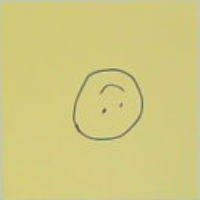
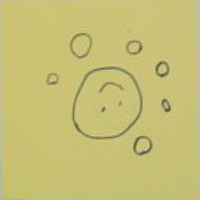
User kann mehr als eine Zeichnung in einer session machen
Nachdem eine zeichnung erkannt und in svg gewandelt wurde, kann der User entscheiden, ob noch weitere zeichnungen erkannt werden sollen. Funktioniert momentan über keybord eingabe

diff --git a/svgConverter/postitDetection.py b/svgConverter/postitDetection.py
@@ -2,136 +2,125 @@ import cv2
 import numpy as np
 import os
 
-def detect_postit_and_draw(frame):
-    # Convert the frame to HSV for better color detection
-    hsv = cv2.cvtColor(frame, cv2.COLOR_BGR2HSV)
+# Define shared directory and notification file paths
+SHARED_DIR = "shared"
+NOTIFICATION_FILE = os.path.join(SHARED_DIR, "ready_for_svg.txt")
 
-    # Define the color range for yellow (adjust as needed for your Post-It note color)
+# Ensure the shared directory exists
+os.makedirs(SHARED_DIR, exist_ok=True)
+
+def detect_postit_and_draw(frame):
+    hsv = cv2.cvtColor(frame, cv2.COLOR_BGR2HSV)
     lower_yellow = np.array([20, 30, 70])
     upper_yellow = np.array([50, 255, 255])
-
-    # Create a mask for the yellow color
     mask = cv2.inRange(hsv, lower_yellow, upper_yellow)
-
-    # Find contours in the mask
     contours, _ = cv2.findContours(mask, cv2.RETR_EXTERNAL, cv2.CHAIN_APPROX_SIMPLE)
 
     for contour in contours:
-        # Filter small contours
         if cv2.contourArea(contour) > 1000:
-            # Approximate the contour to get a polygon
             epsilon = 0.02 * cv2.arcLength(contour, True)
             approx = cv2.approxPolyDP(contour, epsilon, True)
-
-            # If the polygon has four sides, we assume it is the Post-It note
             if len(approx) == 4:
-                # Perform a perspective transformation to align the Post-It
                 pts = np.array([point[0] for point in approx], dtype='float32')
 
-                # Order points in consistent order: top-left, top-right, bottom-right, bottom-left
                 def order_points(pts):
                     rect = np.zeros((4, 2), dtype='float32')
                     s = pts.sum(axis=1)
-                    rect[0] = pts[np.argmin(s)]  # Top-left
-                    rect[2] = pts[np.argmax(s)]  # Bottom-right
+                    rect[0] = pts[np.argmin(s)]
+                    rect[2] = pts[np.argmax(s)]
                     diff = np.diff(pts, axis=1)
-                    rect[1] = pts[np.argmin(diff)]  # Top-right
-                    rect[3] = pts[np.argmax(diff)]  # Bottom-left
+                    rect[1] = pts[np.argmin(diff)]
+                    rect[3] = pts[np.argmax(diff)]
                     return rect
 
                 rect = order_points(pts)
-
-                # Define the width and height of the Post-It note (adjust as needed)
-                width = 200
-                height = 200
+                width, height = 200, 200
                 dst = np.array([
                     [0, 0],
                     [width - 1, 0],
                     [width - 1, height - 1],
                     [0, height - 1]
                 ], dtype='float32')
-
-                # Compute the perspective transform matrix and apply it
                 M = cv2.getPerspectiveTransform(rect, dst)
                 warped = cv2.warpPerspective(frame, M, (width, height))
-
-                # Draw the bounding polygon on the original frame
                 cv2.polylines(frame, [approx], True, (0, 255, 0), 2)
-
                 return warped
-
     return None
 
 def detect_drawing(prev_frame, current_frame):
-    # Compute absolute difference between frames
     diff = cv2.absdiff(prev_frame, current_frame)
-
-    # Apply a more sensitive threshold to highlight changes
     _, thresh = cv2.threshold(diff, 25, 255, cv2.THRESH_BINARY)
-
-    # Count non-zero pixels in the thresholded image
     non_zero_pixels = cv2.countNonZero(thresh)
-
-    # Return True if changes exceed a reduced threshold
     return non_zero_pixels > 1500
+
+def notify_svg_conversion(cropped_file):
+    with open(NOTIFICATION_FILE, "w") as f:
+        f.write(cropped_file)
+    print(f"Notification written to {NOTIFICATION_FILE}")
 
 def main():
     cap = cv2.VideoCapture(0)
-    prev_frame = None
-    drawing_detected = False
-    no_movement_counter = 0
-    movement_threshold = 10
-
-    # Shared directory for communication
-    shared_dir = "shared/"
-    os.makedirs(shared_dir, exist_ok=True)
 
     while True:
-        ret, frame = cap.read()
-        if not ret:
-            break
+        prev_frame = None
+        drawing_detected = False
+        no_movement_counter = 0
+        movement_threshold = 10
 
-        # Resize frame for faster processing
-        frame = cv2.resize(frame, (640, 480))
+        print("Ready to detect a new drawing...")
 
-        # Detect Post-It note and crop the region
-        cropped = detect_postit_and_draw(frame)
-
-        if cropped is not None:
-            gray_cropped = cv2.cvtColor(cropped, cv2.COLOR_BGR2GRAY)
-            gray_cropped = cv2.GaussianBlur(gray_cropped, (11, 11), 0)
-
-            if prev_frame is None:
-                prev_frame = gray_cropped
-                continue
-
-            if detect_drawing(prev_frame, gray_cropped):
-                drawing_detected = True
-                no_movement_counter = 0
-            else:
-                if drawing_detected:
-                    no_movement_counter += 1
-
-            if no_movement_counter >= movement_threshold:
-                print("Drawing completed! Capturing image...")
-                output_path = os.path.join(shared_dir, "detected_postit.png")
-                cv2.imwrite(output_path, cropped)
-                print(f"Cropped Post-It note saved as {output_path}")
-
-                # Write the flag file to signal the JavaScript program
-                with open(os.path.join(shared_dir, "drawing_ready.txt"), "w") as flag_file:
-                    flag_file.write("New drawing is ready.\n")
-                print("Flag file created to signal SVG conversion.")
+        while True:
+            ret, frame = cap.read()
+            if not ret:
                 break
 
-            prev_frame = gray_cropped
+            frame = cv2.resize(frame, (640, 480))
+            cropped = detect_postit_and_draw(frame)
 
-        cv2.imshow("Webcam", frame)
-        if cv2.waitKey(1) & 0xFF == ord('q'):
-            break
+            if cropped is not None:
+                gray_cropped = cv2.cvtColor(cropped, cv2.COLOR_BGR2GRAY)
+                gray_cropped = cv2.GaussianBlur(gray_cropped, (11, 11), 0)
 
-    cap.release()
-    cv2.destroyAllWindows()
+                if prev_frame is None:
+                    prev_frame = gray_cropped
+                    continue
+
+                if detect_drawing(prev_frame, gray_cropped):
+                    drawing_detected = True
+                    no_movement_counter = 0
+                else:
+                    if drawing_detected:
+                        no_movement_counter += 1
+
+                if no_movement_counter >= movement_threshold:
+                    print("Drawing completed! Capturing image...")
+                    cropped_file = os.path.join(SHARED_DIR, "detected_postit.png")
+                    cv2.imwrite(cropped_file, cropped)
+                    print(f"Cropped Post-It note saved as {cropped_file}")
+                    notify_svg_conversion(cropped_file)
+                    break
+
+                prev_frame = gray_cropped
+
+            cv2.imshow("Webcam", frame)
+
+            key = cv2.waitKey(1) & 0xFF
+            if key == ord('q'):
+                cap.release()
+                cv2.destroyAllWindows()
+                return
+
+        print("Press 'c' to capture another drawing, or 'q' to quit.")
+        while True:
+            key = cv2.waitKey(1) & 0xFF
+            if key == ord('c'):
+                print("Starting new drawing session...")
+                break
+            elif key == ord('q'):
+                print("Exiting program.")
+                cap.release()
+                cv2.destroyAllWindows()
+                return
 
 if __name__ == "__main__":
     main()
